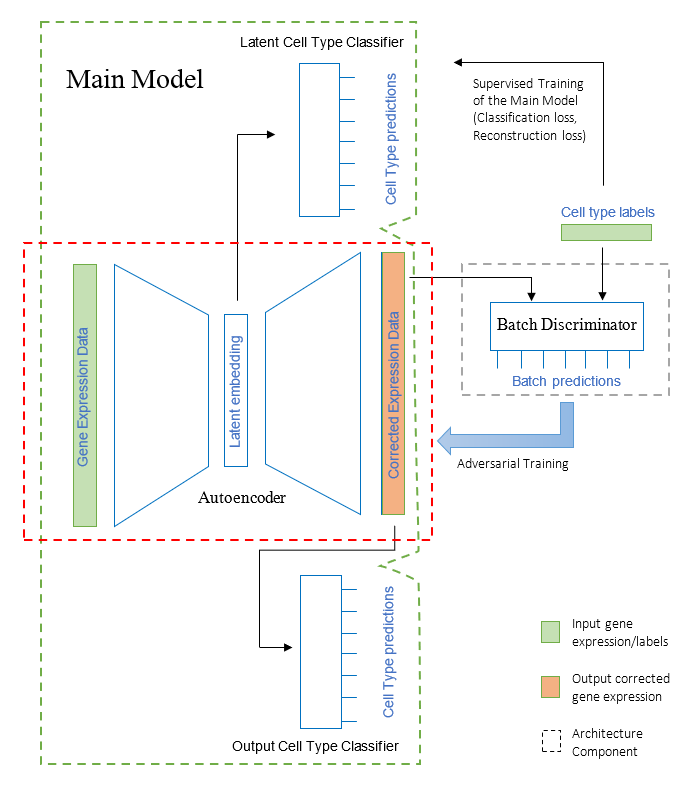
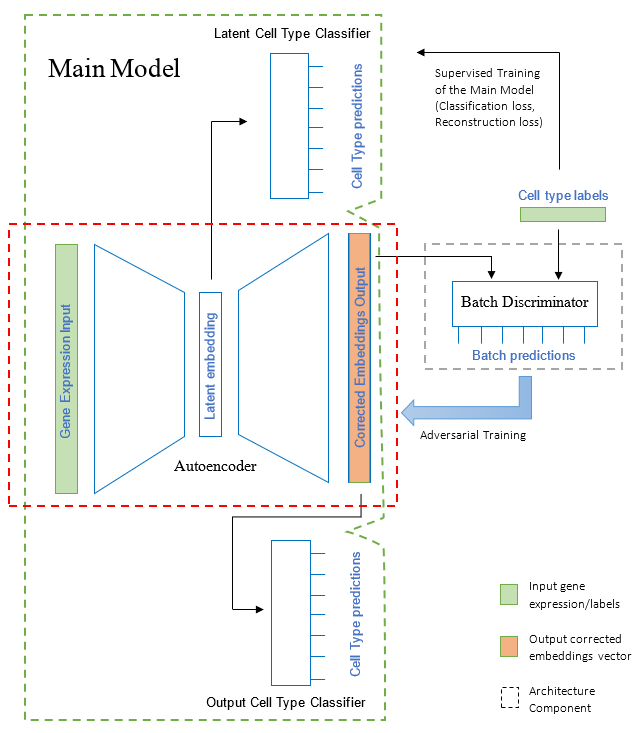
Dependencies update

diff --git a/README.md b/README.md
@@ -9,8 +9,7 @@ A detailed comparison between ABC and other integration methods, including the s
 needed to reproduce the results, can be found at:
 https://github.com/reutd/ABC-Reproducibility
 
-## Installation 
-Please use python 3.9
+## Installation
 
 ```bash
 pip install git+https://github.com/reutd/ABC.git
@@ -31,7 +30,7 @@ then remove batch effects using:
 ```bash
 integrated = model.batch_correction()
 ```
-integrated will hold a new anndata object with the corrected values.
+integrated will hold a new anndata object with the corrected embeddings.
 
 
 ## Example
